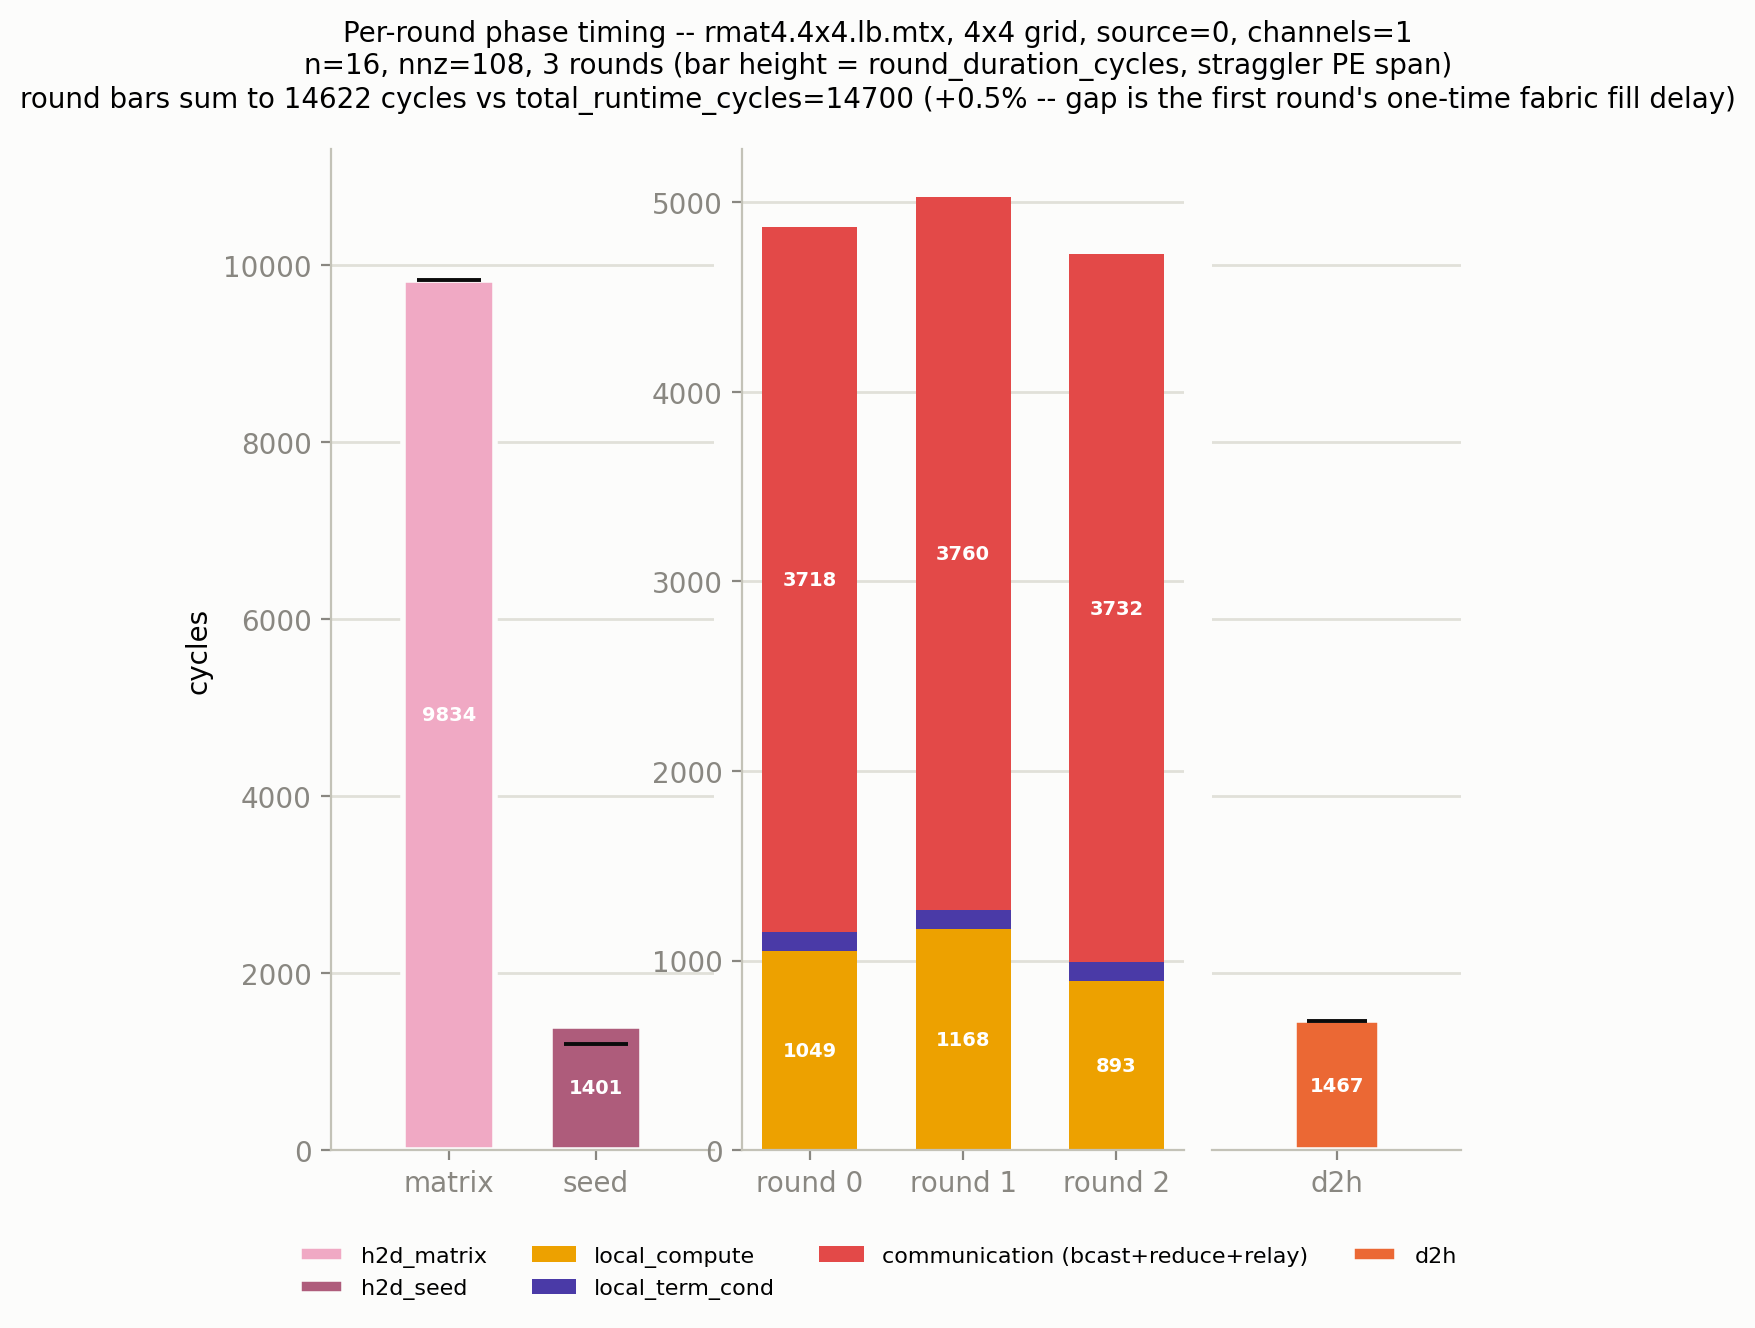
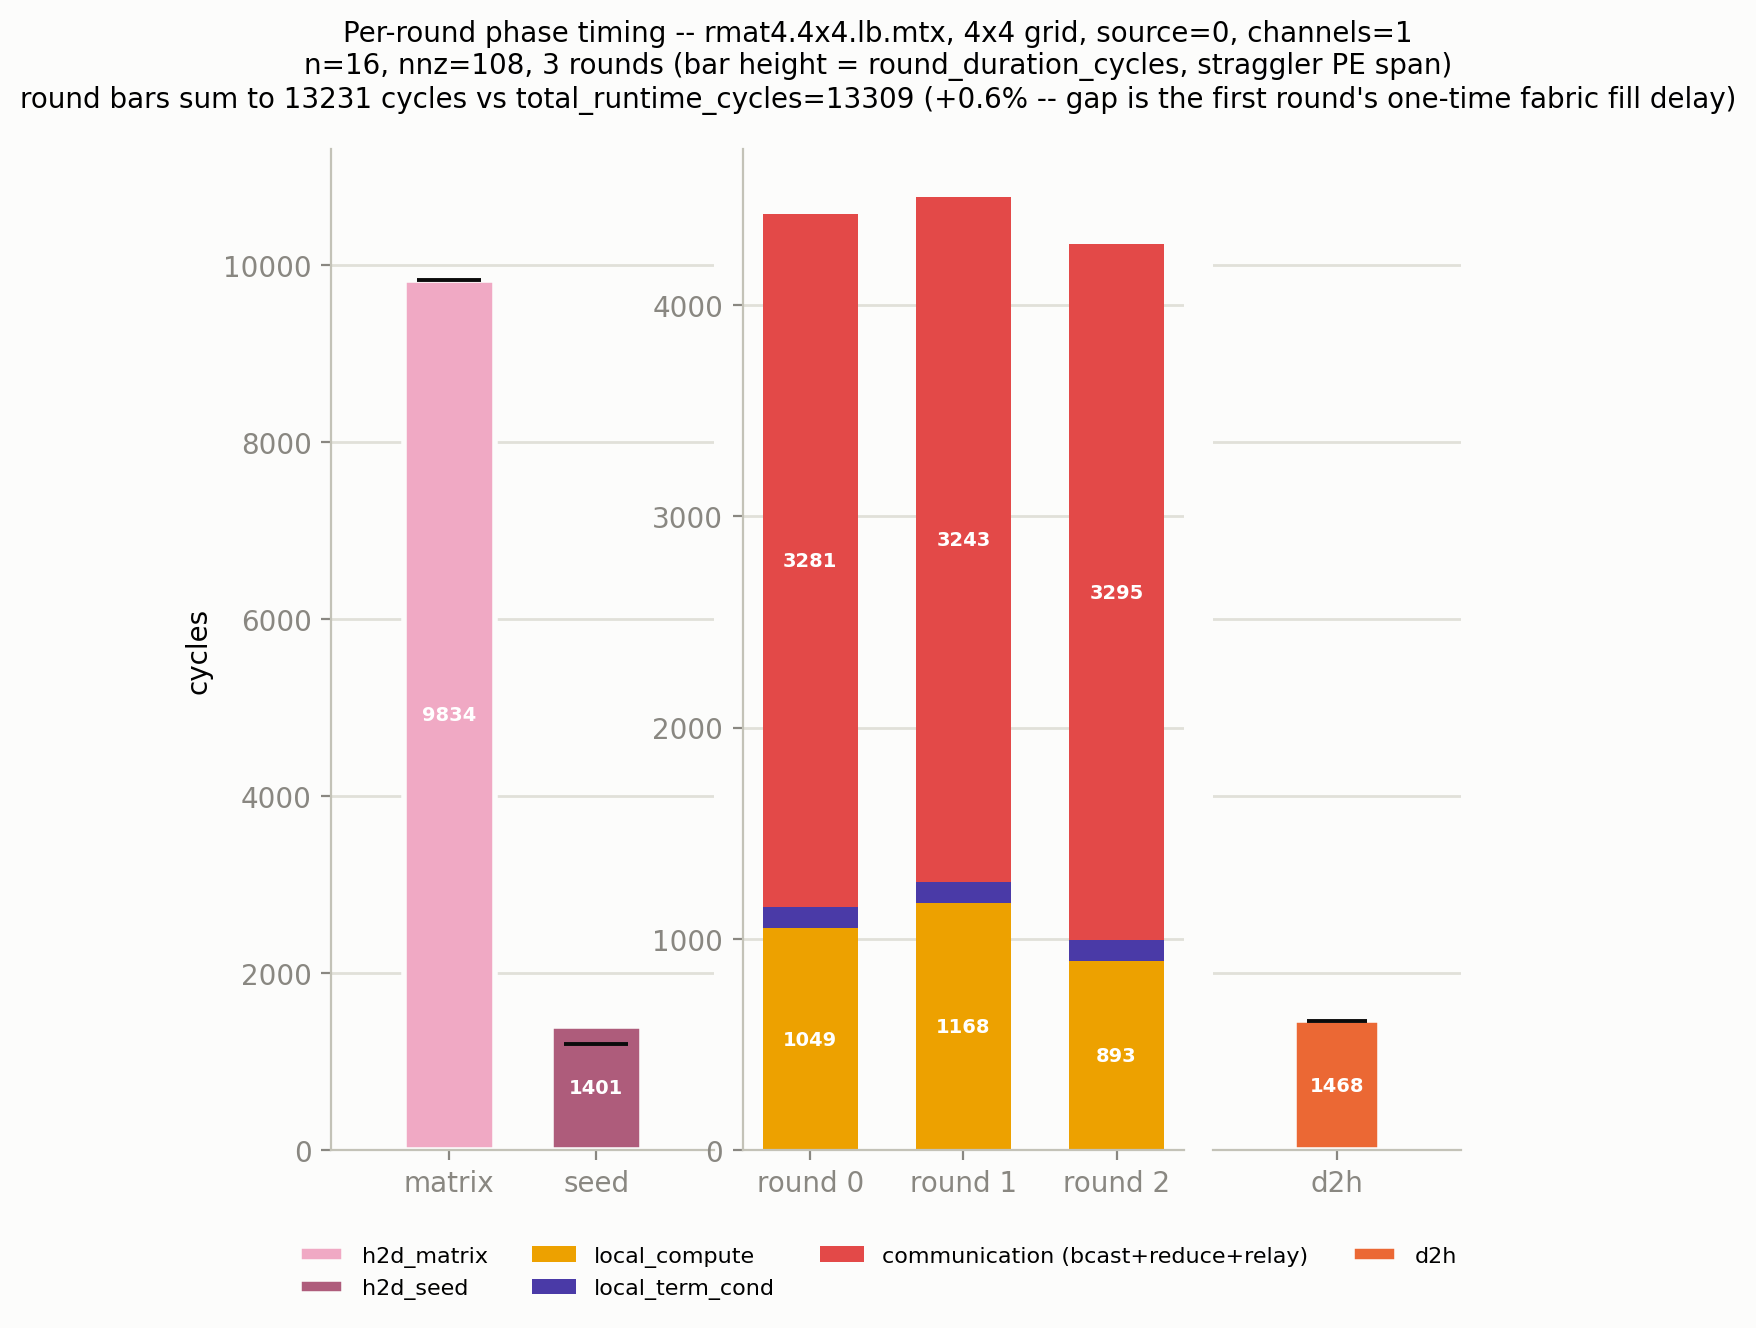
[opt] first relay phase is a bcast

diff --git a/spmv-hypersparse/bool_diag_spmv/bfs_timing.py b/spmv-hypersparse/bool_diag_spmv/bfs_timing.py
@@ -112,7 +112,14 @@ PHASE_ROOT_KIND = {
     "visited_bcast": "diagonal",
     "vertical_bcast": "diagonal",
     "reduce": "diagonal",
-    "relay_col_reduce": "mid",
+    # relay_col_reduce's root changed from "mid" to "diagonal" when its
+    # underlying primitive changed from mpi_y.reduce_fadds(MID, ...) to
+    # mpi_y.broadcast(pcol_id, ...) -- see bool_pe.csl's reduce_done() and
+    # its own comment on why (only the diagonal PE ever has real data, so
+    # this moves it instead of reducing it). Name kept for continuity with
+    # existing CSV columns/heatmaps -- it's still "phase A" of the relay,
+    # just a different primitive now.
+    "relay_col_reduce": "diagonal",
     "relay_row_reduce": "mid",
     "relay_row_bcast": "mid",
     "relay_col_bcast": "mid",
